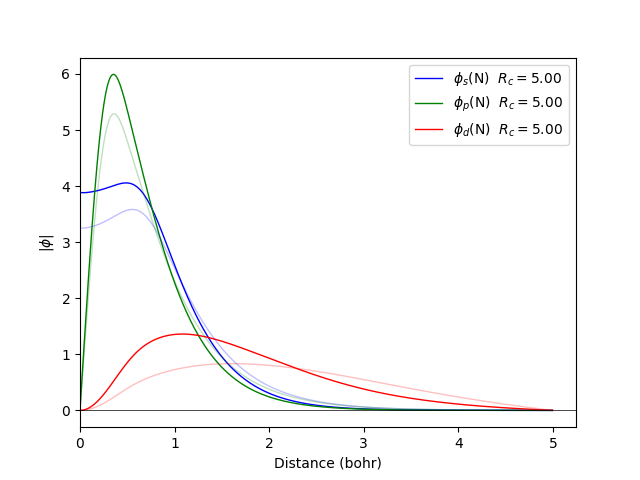
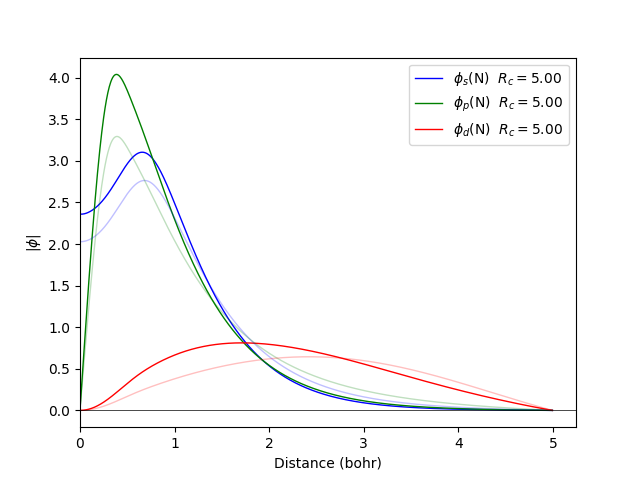
docs

diff --git a/docs/source/conf.py b/docs/source/conf.py
@@ -39,7 +39,10 @@ extensions = [
     'sphinx_design',
     'sphinx_favicon',
     "sphinx_copybutton",
+    'sphinxcontrib.bibtex', 
 ]
+
+bibtex_bibfiles = ['references.bib']
 
 master_doc = 'index'
 source_suffix = '.rst'

diff --git a/docs/source/tutorial/fdata.rst b/docs/source/tutorial/fdata.rst
@@ -77,7 +77,7 @@ Another way to modify the shape of the orbitals is to generate them with less ch
 
 .. code-block:: bash
 
-  fdata wavefunctions --element Si --orbitals spd -n 2.00 1.00 0.00 -r 5.00 5.00 5.00
+  fdata wavefunctions --element N --orbitals spd -n 0.00 0.00 0.00 -r 5.00 5.00 5.00
 
 .. figure:: ../_static/N_03.png
     :align: center
@@ -104,20 +104,58 @@ These Hartree potentials are required for calculating Coulombic shell potentials
   \left(-\frac{\hbar}{2m}\nabla^2 + V_{ext}(\mathbf{r}) + \mu_{xc}[\rho_{in}(\mathbf{r})] + \frac{e^2}{2}\int \frac{\rho_{in}(r)}{|\mathbf{r}-\mathbf{r}'|} d^3r' \right) \psi_i(\mathbf{r}) = \epsilon_i \psi_i(\mathbf{r})
 
 
-A set of slightly excited pseudo-atomic Fireball wavefunctions are computed within density-functional theory (using either the local-density approximation or generalized gradient corrections) and a norm-conserving separable pseudo-potential [fhi98PP]_. These wavefunctions are chosen such that they smoothly vanish at the cutoff radius. These pseudopotentials will also be downloaded automatically from here.
+A set of slightly excited pseudo-atomic Fireball wavefunctions are computed within density-functional theory (using either the local-density approximation or generalized gradient corrections) and a norm-conserving separable pseudo-potential :cite:`FUCHS199967` . These wavefunctions are chosen such that they smoothly vanish at the cutoff radius. These pseudopotentials will also be downloaded automatically from here.
 
-Another way to generate orbitals is by using the mixing factor, optimized wavefunctions mixing ground state and excited states
+We can mix orbitals from different calculations. For example, we use charges of 2.0 and 0.2 for the sp orbitals, while for the d orbitals we use 0.0 0.0 0.0.
+
+.. code-block:: bash
+
+  fdata wavefunctions --element C --orbitals spd -n 2.00 0.20 0.0 -r 6.00 6.00 6.00 --save sp
+  fdata wavefunctions --element C --orbitals spd -n 0.00 0.00 0.0 -r 6.00 6.00 6.00 --save d
+  fdata wavefunctions finnish C -o cinput 
+
+.. figure:: ../_static/C0.png
+    :align: center
+    :alt: C (fireball wavefunctions generate from different calculations )
+    :figclass: align-center
+
+Another way to mix orbital calculations is by modifying the charge in the pseudopotential to generate the d orbital.
+
+.. code-block:: bash
+
+  fdata wavefunctions --element C --orbitals spd -n 2.00 0.20 0.0 -r 6.00 6.00 6.00 --save sp
+  fdata wavefunctions --element C --orbitals spd -n 2.00 0.20 0.0 -r 6.00 6.00 6.00 --valence-pp 7.00 --save d
+  fdata wavefunctions finnish C -o cinput
+
+.. figure:: ../_static/C1.png
+    :align: center
+    :alt: C (fireball wavefunctions generate from different calculations )
+    :figclass: align-center
+
+To generate orbitals by using the **mixing factor**, optimized wavefunctions mixing ground state and excited states
+
+.. code-block:: bash
+
+  fdata wavefunctions --element H --orbitals s --excite mix -n 1.0 --pmix <pmix> --nion 1.00 -r 4.00
 
 .. figure:: ../_static/Hmix.png
     :align: center
     :alt: H mix (fireball wavefunctions generate them with mixing factor )
     :figclass: align-center
 
+If we want to obtain excited-state orbitals using the DMOL option, we execute the command:
 
+.. code-block:: bash
 
+  fdata wavefunctions --element C --excite DMOL --orbitals sp -n 2.00 0.20 --nion 0.00 0.00  -r 6.00 6.00
+
+.. figure:: ../_static/CDMOL.png
+    :align: center
+    :alt: C (fireball wavefunctions generate from d--excite DMOL )
+    :figclass: align-center
 
 References
 ----------
 
-.. [fhi98PP]  M. Fuchs, M. Sheffler. "Ab initio pseudopotentials for electronic structure calculations of poly-atomic systems using density-functional theory," Comput. Phys. Comm., 119, 67-98 (1999). `https://doi.org/10.1016/S0010-4655(98)00201-X <https://www.sciencedirect.com/science/article/abs/pii/S001046559800201X>`_
-
+.. bibliography::
+   :cited:
